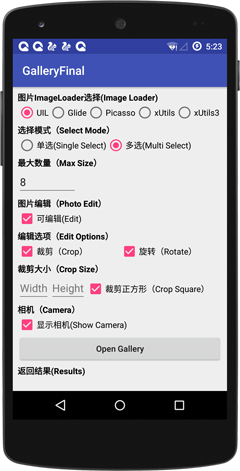
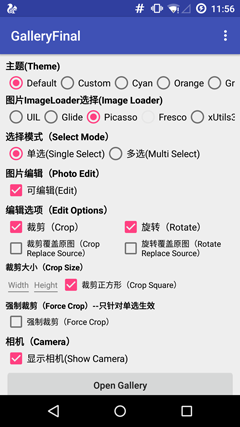
publish v1.3.0

diff --git a/app/src/main/java/cn/finalteam/galleryfinal/sample/MainActivity.java b/app/src/main/java/cn/finalteam/galleryfinal/sample/MainActivity.java
@@ -29,12 +29,12 @@ import cn.finalteam.galleryfinal.sample.loader.UILImageLoader;
 import cn.finalteam.galleryfinal.sample.loader.XUtils3ImageLoader;
 import cn.finalteam.galleryfinal.sample.loader.XUtilsImageLoader;
 import cn.finalteam.galleryfinal.widget.HorizontalListView;
-import cn.finalteam.toolsfinal.Logger;
 import com.baoyz.actionsheet.ActionSheet;
 import com.nostra13.universalimageloader.cache.disc.naming.Md5FileNameGenerator;
 import com.nostra13.universalimageloader.core.ImageLoader;
 import com.nostra13.universalimageloader.core.ImageLoaderConfiguration;
 import com.nostra13.universalimageloader.core.assist.QueueProcessingType;
+import java.io.File;
 import java.util.ArrayList;
 import java.util.List;
 import org.xutils.x;
@@ -73,6 +73,8 @@ public class MainActivity extends AppCompatActivity {
     @Bind(R.id.cb_open_force_crop) CheckBox mCbOpenForceCrop;
     @Bind(R.id.cb_open_force_crop_edit) CheckBox mCbOpenForceCropEdit;
     @Bind(R.id.ll_force_crop) LinearLayout mLlForceCrop;
+    @Bind(R.id.toolbar) Toolbar mToolbar;
+    @Bind(R.id.rb_fresco) RadioButton mRbFresco;
 
     private List<PhotoInfo> mPhotoList;
     private ChoosePhotoListAdapter mChoosePhotoListAdapter;
@@ -81,7 +83,7 @@ public class MainActivity extends AppCompatActivity {
     @Override
     protected void onCreate(Bundle savedInstanceState) {
         super.onCreate(savedInstanceState);
-        Logger.init("galleryfinal", true);
+
         setContentView(R.layout.activity_main);
         ButterKnife.bind(this);
         Toolbar toolbar = (Toolbar) findViewById(R.id.toolbar);
@@ -99,7 +101,7 @@ public class MainActivity extends AppCompatActivity {
                     mLlMaxSize.setVisibility(View.VISIBLE);
                     mLlForceCrop.setVisibility(View.GONE);
                 } else {
-                    if ( mCbEdit.isChecked() ) {
+                    if (mCbEdit.isChecked()) {
                         mLlForceCrop.setVisibility(View.VISIBLE);
                     }
                     mLlMaxSize.setVisibility(View.GONE);
@@ -242,7 +244,7 @@ public class MainActivity extends AppCompatActivity {
                     }
                     if (mCbOpenForceCrop.isChecked() && mRbSingleSelect.isChecked()) {
                         builder.forceCrop(true);
-                        if ( mCbOpenForceCropEdit.isChecked() ) {
+                        if (mCbOpenForceCropEdit.isChecked()) {
                             builder.forceCropEdit(true);
                         }
                     }
@@ -266,6 +268,7 @@ public class MainActivity extends AppCompatActivity {
 
                             @Override
                             public void onOtherButtonClick(ActionSheet actionSheet, int index) {
+                                String path = "/sdcard/pk1-2.jpg";
                                 switch (index) {
                                     case 0:
                                         GalleryFinal.openGallery(config);
@@ -274,10 +277,18 @@ public class MainActivity extends AppCompatActivity {
                                         GalleryFinal.openCamera(config);
                                         break;
                                     case 2:
-                                        GalleryFinal.openCrop(config, "/sdcard/pk1-2.jpg");
+                                        if (new File(path).exists()) {
+                                            GalleryFinal.openCrop(config, path);
+                                        } else {
+                                            Toast.makeText(MainActivity.this, "图片不存在", Toast.LENGTH_SHORT).show();
+                                        }
                                         break;
                                     case 3:
-                                        GalleryFinal.openEdit(config, "/sdcard/pk1-2.jpg");
+                                        if (new File(path).exists()) {
+                                            GalleryFinal.openEdit(config, path);
+                                        } else {
+                                            Toast.makeText(MainActivity.this, "图片不存在", Toast.LENGTH_SHORT).show();
+                                        }
                                         break;
                                     default:
                                         break;
@@ -334,7 +345,7 @@ public class MainActivity extends AppCompatActivity {
             GalleryFinal.cleanCacheFile();
             Toast.makeText(this, "清理成功(Clear success)", Toast.LENGTH_SHORT).show();
         } else {
-            startActivity(new Intent(this, FuncationActivity.class));
+            //startActivity(new Intent(this, FuncationActivity.class));
         }
         return super.onOptionsItemSelected(item);
     }

diff --git a/app/src/main/java/cn/finalteam/galleryfinal/sample/IApplication.java b/app/src/main/java/cn/finalteam/galleryfinal/sample/IApplication.java
@@ -34,5 +34,6 @@ public class IApplication extends Application {
         GalleryTheme theme = new GalleryTheme.Builder()
                 .build();
         GalleryFinal.init(theme);
+        GalleryFinal.setDebug(BuildConfig.DEBUG);
     }
 }

diff --git a/README.md b/README.md
@@ -1,9 +1,6 @@
 ![](images/gallery_final_effect.png)
 # GalleryFinal简介
-Android自定义相册，实现了拍照、图片选择（单选/多选）、裁剪（单/多裁剪）、旋转、缩放、ImageLoader无绑定任由开发者选择
-
-# GalleryFinal intro
-GalleryFinal is an Android custom gallery.It can take photo,choose and clip pictures(single/multiple),rotate,zoom,ImageLoader unbinding
+Android自定义相册，实现了拍照、图片选择（单选/多选）、 裁剪（单/多裁剪）、旋转、ImageLoader无绑定任由开发者选择、功能可配置、主题样式可配置。GalleryFinal为你定制相册。
 
 ## 为什么要使用GalleryFinal？
 * 拍照/选择图片倒立问题
@@ -14,16 +11,10 @@ GalleryFinal is an Android custom gallery.It can take photo,choose and clip pict
 * 系统Gallery App不美观
 * ……
 
-## 当前更新-V1.3.0
-* 代码设置主题颜色
-* 支持对外打开相册
-* 支持对外打开编辑
-* 支持对外打开裁剪
-* 非png和非jpg图片不能编辑
-* 解决三星部分机型编辑出现OOM情况
-* 添加旋转是否覆盖源文件（默认不覆盖）
-* 添加裁剪是否覆盖源文件（默认不覆盖）
-* 添加必须裁剪功能
+## Updating V1.3.1
+* 对Fresco image loader的支持
+* 添加图片预览功能
+* ……
 
 ## 截图展示
 Demo apk二维码地址：
@@ -162,36 +153,101 @@ public class XUtilsImageLoader implements cn.finalteam.galleryfinal.ImageLoader 
 }
 ```
 
+* 对于使用facebook的fresco Imageloader框架，由于GalleryFinal没有对fresco的支持，开发者可以
+
 * ……
 
-3、打开Gallery
+3、启动GalleryFinal
+
+在GalleryFinal 1.3.0版本中相册、拍照、裁剪和图片编辑功能可独立使用
+
+* 打开相册（含GalleryFinal所有功能，可通过GalleryConfig配置）
 
 ```java
 GalleryConfig config = new GalleryConfig.Builder(MainActivity.this)
-                        .mutiSelect()
-                        .mutiSelectMaxSize(8)
-                        .enableEdit()
-                        .enableCrop()
-                        .enableRotate()
-                        .showCamera()
-                        .imageloader(new UILImageLoader())
-                        .cropSquare()
-                        .cropWidth(50)
-                        .cropHeight(50)
-                        //.setTakePhotoFolter(new File(...)) //自定义拍照存储目录
-                        //.setEditPhotoCacheFolder(new File(...)) //自定义编辑产生的图片缓存目录
-                        //.filter(mPhotoList)
-                        .selected(mPhotoList)
-                        .build();
-GalleryFinal.open(config);
+	.mutiSelect()
+	.mutiSelectMaxSize(8)
+	.enableEdit()
+	.enableCrop()
+	.enableRotate()
+	.showCamera()
+	.imageloader(new UILImageLoader())
+	.cropSquare()
+	.cropWidth(50)
+	.cropHeight(50)
+	//.setTakePhotoFolter(new File(...))
+	//.setEditPhotoCacheFolder(new File(...))
+	//.filter(mPhotoList)
+	.selected(mPhotoList)
+	.rotateReplaceSource(false)
+	.cropReplaceSource(false)
+	...//添加其他配置信息
+	.build();
+GalleryFinal.openGallery(config);	//打开相册
+```
+
+* 使用拍照
+
+```java
+GalleryConfig config = new GalleryConfig.Builder(MainActivity.this)                
+	...//添加其他配置信息
+	.build();
+GalleryFinal.openCamera(config);
+```
+
+* 使用裁剪
+
+```java
+GalleryConfig config = new GalleryConfig.Builder(MainActivity.this)
+	...//添加其他配置信息
+	.build();
+GalleryFinal.openCrop(config);
+```
+
+* 使用图片编辑
+
+```java
+GalleryConfig config = new GalleryConfig.Builder(MainActivity.this)
+	...//添加其他配置信息
+	.build();
+GalleryFinal.openEdit(config);
+```
+
+* **GalleryConfig Builder类说明**
+
+```java
+mutiSelect()//配置多选
+singleSelect()//配置单选
+mutiSelectMaxSize(int maxSize)//配置多选数量
+enableEdit()//开启编辑功能
+enableCrop()//开启裁剪功能
+enableRotate()//开启选择功能
+showCamera()//开启相机功能
+cropWidth(int width)//裁剪宽度
+cropHeight(int height)//裁剪高度
+cropSquare()//裁剪正方形
+selected(List list)//添加已选列表,只是在列表中默认呗选中不会过滤图片
+filter(List list)//添加图片过滤，也就是不在GalleryFinal中显示
+takePhotoFolter(File file)//配置拍照保存目录，不做配置的话默认是/sdcard/DCIM/GalleryFinal/
+editPhotoCacheFolder(File file)//配置编辑（裁剪和旋转）功能产生的cache文件保存目录，不做配置的话默认保存在/sdcard/GalleryFinal/edittemp/
+rotateReplaceSource(boolean)//配置选择图片时是否替换原始图片，默认不替换
+cropReplaceSource(boolean)//配置裁剪图片时是否替换原始图片，默认不替换
+forceCrop(boolean)//启动强制裁剪功能,一进入编辑页面就开启图片裁剪，不需要用户手动点击裁剪，此功能只针对单选操作
+forceCropEdit(boolean)//在开启强制裁剪功能时是否可以对图片进行编辑（也就是是否显示旋转图标和拍照图标）
+imageloader(ImageLoader)//配置图片加载器
 ```
 
 
 4、主题的配置
+
 * 建议在你的app的Application这设置主题
+
 * GalleryFinal默认主题为DEFAULT（深蓝色）,GalleryFinal还自带主题：DARK（黑色主题）、CYAN（蓝绿主题）、ORANGE（橙色主题）、GREEN（绿色主题）和TEAL（青绿色主题），当然也支持自定义主题（Custom Theme）,在自定义主题中用户可以配置字体颜色、图标颜色、更换图标、和背景色
+
 * 设置主题
-1、自定义主题
+
+1)、使用自定义主题
+
 ```java
  GalleryTheme theme = new GalleryTheme.Builder()
         .setTitleBarBgColor(Color.rgb(0xFF, 0x57, 0x22))
@@ -205,13 +261,40 @@ GalleryFinal.open(config);
         .setIconRotate(R.mipmap.ic_action_repeat)
         .setIconCrop(R.mipmap.ic_action_crop)
         .setIconCamera(R.mipmap.ic_action_camera)
+        //...其他配置
         .build();
 GalleryFinal.init(theme);
 ```
 
-2、GalleryFinal主题
+2)、使用GalleryFinal主题
 
+```java
+GalleryFinal.init(GalleryTheme.CYAN);
+...
+```
+**3)、GalleryTheme 主题配置类说明**
 
+```java
+setTitleBarTextColor//标题栏文本字体颜色
+setTitleBarBgColor//标题栏背景颜色
+setTitleBarIconColor//标题栏icon颜色，如果设置了标题栏icon，设置setTitleBarIconColor将无效
+setCheckNornalColor//选择框未选颜色
+setCheckSelectedColor//选择框选中颜色
+setCropControlColor//设置裁剪控制点和裁剪框颜色
+setFabNornalColor//设置Floating按钮Nornal状态颜色
+setFabPressedColor//设置Floating按钮Pressed状态颜色
+
+setIconBack//设置返回按钮icon
+setIconCamera//设置相机icon
+setIconCrop//设置裁剪icon
+setIconRotate//设置选择icon
+setIconClear//设置清楚选择按钮icon（标题栏清除选择按钮）
+setIconFolderArrow//设置标题栏文件夹下拉arrow图标
+setIconDelete//设置多选编辑页删除按钮icon
+setIconCheck//设置checkbox和文件夹已选icon
+setIconFab//设置Floating按钮icon
+setEditPhotoBgTexture//设置图片编辑页面图片margin外背景
+```
 
 5、如果你还想更深度的定制页面效果可以把资源文件名字定义成Gallery资源名已达到覆盖效果。如有不理解可以联系我。
 
